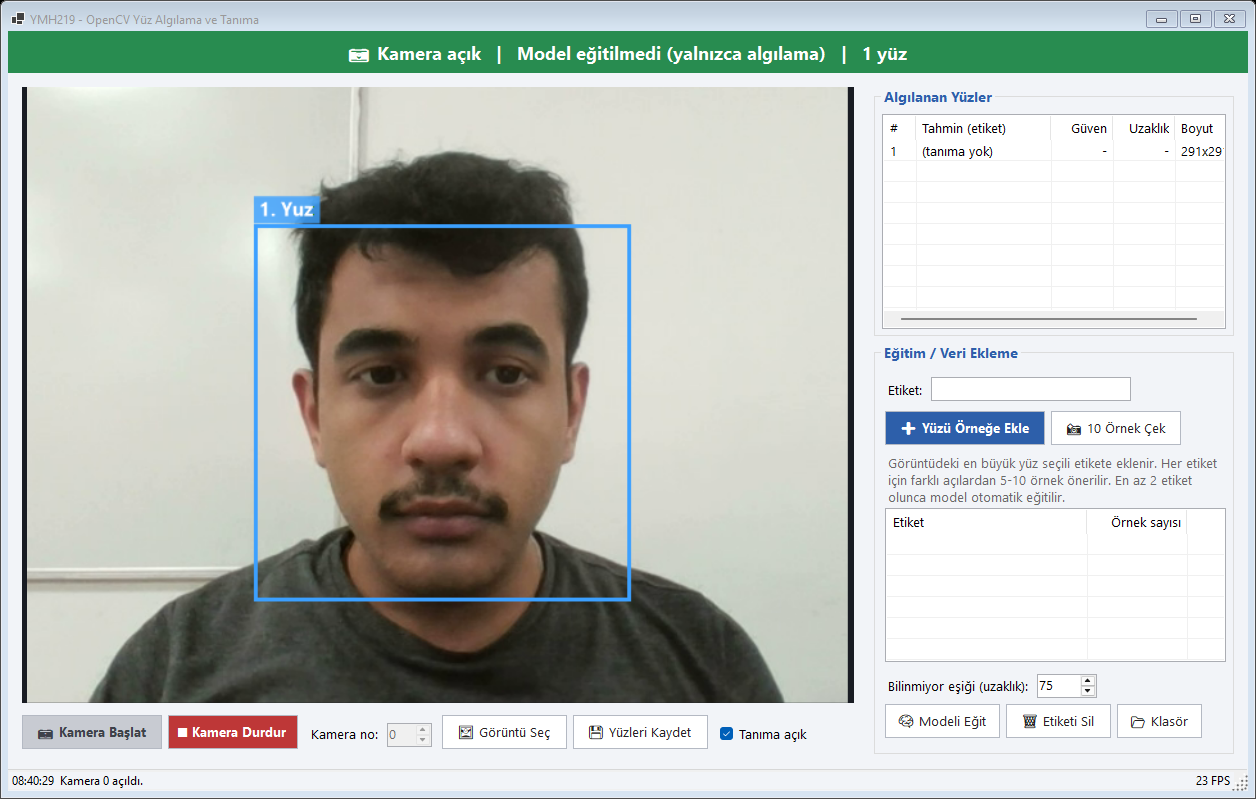
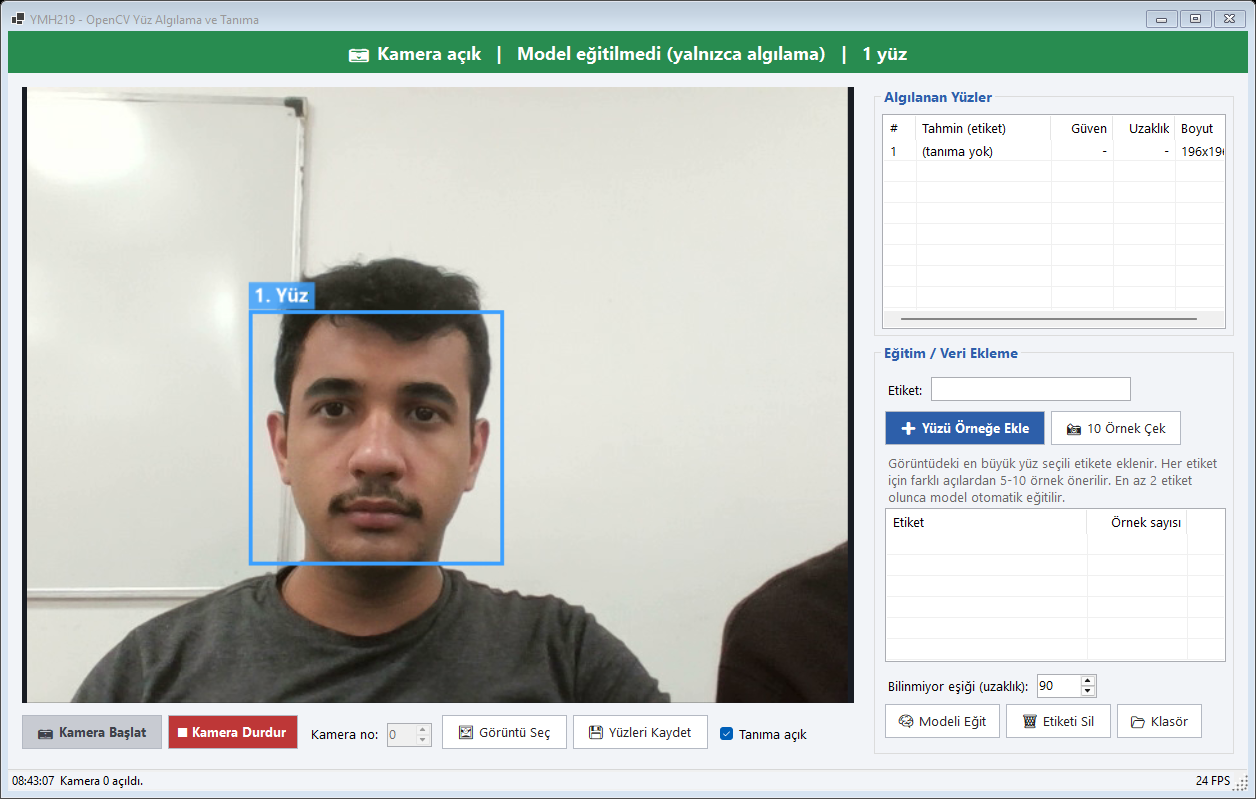
README ve ekran goruntuleri eklendi (kurulum, kullanim, siniflar, tanima yontemi, sinirlamalar)

diff --git a/README.md b/README.md
@@ -1,0 +1,113 @@
+# YMH219 - OpenCV ile Yüz Algılama ve Tanıma
+
+Nesne Tabanlı Programlama (YMH 219) dersi ek uygulama ödevi kapsamında **C# / .NET Windows Forms** ve **OpenCvSharp** ile geliştirilmiş masaüstü uygulaması.
+Kameradan veya dosyadan alınan görüntüde yüzleri **Haar Cascade** ile algılar ve dikdörtgenle işaretler. Kullanıcının oluşturduğu küçük yerel veri seti ile **LBPH** algoritmasını eğitir; her yüz için tahmin edilen etiketi ve güven skorunu gösterir.
+
+## Ekran Görüntüleri
+
+**İki kişinin aynı karede tanınması (2 etiket, 20 örnekle eğitilmiş model)**
+![İki kişi tanıma](screenshots/02-iki-kisi-tanima.png)
+
+| Model eğitilmeden: yalnızca algılama | Tek kişi tanıma |
+|:---:|:---:|
+| ![Algılama](screenshots/01-algilama.png) | ![Ömer tanıma](screenshots/03-omer-tanima.png) |
+
+> Ekran görüntülerindeki yüzler öğrencinin kendisine ve izin veren bir arkadaşına aittir. Görüntüler uygulamanın kendi kamera akışından alınmıştır.
+
+## Kullanılan Teknolojiler / NuGet Paketleri
+
+- C# 14 / .NET 10 (`net10.0-windows`), Windows Forms
+- **OpenCvSharp4** `4.13.0.20261107`: OpenCV'nin .NET sarmalayıcısı (`CascadeClassifier`, `VideoCapture`, `Mat`, `Cv2`)
+- **OpenCvSharp4.runtime.win**: Windows için yerel OpenCV kütüphanesi (contrib `face` modülü dahil, `LBPHFaceRecognizer`)
+- **OpenCvSharp4.Extensions**: `Mat` → `Bitmap` dönüşümü (`BitmapConverter`)
+- Yüz algılama modeli: OpenCV'nin resmi `haarcascade_frontalface_default.xml` dosyası (`FaceRecognition/Assets/`)
+
+## Kurulum ve Çalıştırma
+
+**Visual Studio ile:**
+1. Depoyu klonlayın: `git clone https://github.com/Omerdoganse/YMH219-FaceRecognition.git`
+2. `YMH219-FaceRecognition.sln` dosyasını Visual Studio 2022 (17.14+) / 2026 ile açın. NuGet paketleri otomatik geri yüklenir.
+3. Platformun **x64** (Any CPU, 64 bit) olduğundan emin olup `F5` ile çalıştırın.
+
+**Komut satırı ile:**
+```bash
+cd YMH219-FaceRecognition
+dotnet run --project FaceRecognition
+```
+
+> .NET 10 SDK ve 64 bit Windows gereklidir. Kamera için Windows'ta **Ayarlar → Gizlilik ve güvenlik → Kamera** bölümünde masaüstü uygulamalarına izin verilmelidir.
+
+## Kullanım
+
+1. **📷 Kamera Başlat** ile kamerayı açın (birden fazla kamera varsa *Kamera no* değiştirilebilir) veya **🖼 Görüntü Seç** ile bir fotoğraf açın. Bulunan yüzler mavi dikdörtgenle işaretlenir.
+2. **Etiket** kutusuna kişinin adını yazın (örn. *Ömer*). **📸 10 Örnek Çek** kameradan aralıklarla 10 yüz örneği alır, **➕ Yüzü Örneğe Ekle** yalnızca o anki kareyi ekler. Örnek çekerken başınızı hafifçe sağa sola çevirin.
+3. İkinci kişi (veya aynı kişinin farklı görünümü) için 2. adımı başka bir etiketle tekrarlayın.
+4. En az **2 etiket** olduğunda model otomatik eğitilir (**🧠 Modeli Eğit** ile elle de eğitilebilir). Artık yüzlerin üstünde **etiket ve güven skoru** görünür:
+   - 🟩 yeşil: tanınan kişi
+   - 🟧 turuncu: *Bilinmiyor* (uzaklık eşiğin üstünde)
+   - 🟦 mavi: yalnızca algılama (model eğitilmemiş veya *Tanıma açık* kapalı)
+5. **Bilinmiyor eşiği** ile tanımanın ne kadar katı olacağı ayarlanır (küçük değer = daha katı).
+6. **💾 Yüzleri Kaydet** ekrandaki tüm yüzleri ayrı PNG dosyaları olarak kaydeder. **🗑 Etiketi Sil** bir kişiyi veri setinden kaldırır, **📂 Klasör** veri seti klasörünü açar.
+
+Veri seti `%LOCALAPPDATA%\YMH219-FaceRecognition\FaceData\<etiket>\*.png` konumunda tutulur. Kişisel veri olduğu için depoya **eklenmez** (`.gitignore`).
+
+## Temel Özellikler
+
+- Kamera görüntüsü (~20 FPS) veya seçilen resim `PictureBox` içinde gösterilir.
+- Haar Cascade ile **yüz algılama** ve dikdörtgenle işaretleme. **Aynı karede birden fazla yüz** desteklenir.
+- LBPH ile **tanıma**: etiket, güven skoru (%) ve LBPH uzaklığı yüzün üstünde ve **Algılanan Yüzler** listesinde gösterilir.
+- **Basit eğitim / veri ekleme ekranı:** etiket oluşturma, tekli ve 10'lu örnek çekimi, etiket ve örnek sayısı listesi, etiket silme.
+- Kamera **Başlat / Durdur**, **Görüntü Seç**, algılanan yüzleri **ayrı klasöre kaydetme**.
+- Üst şeritte kamera ve model durumu, alt çubukta son işlem ve FPS gösterilir.
+- **Hata kontrolleri** (uygulama kapanmaz, anlaşılır mesaj gösterilir):
+  - Model dosyası yok veya bozuk → *"Yüz algılama modeli bulunamadı..."*
+  - Kamera açılamıyor, başka uygulama kullanıyor veya izin yok → *"Kamera 0 açılamadı..."*
+  - Kamera bağlantısı koptu → *"Kameradan görüntü alınamıyor..."*
+  - Geçersiz görüntü dosyası, görüntüde yüz yok, tek etiketle eğitim denemesi, geçersiz etiket adı, dosya yazma hataları
+
+## Proje Yapısı ve Sınıf Tasarımı
+
+```
+FaceRecognition/
+├── Program.cs
+├── MainForm.cs                  # Arayüz, olay yönetimi, kamera karelerini ekrana aktarma
+├── FaceOverlayRenderer.cs       # Dikdörtgen + etiket çizimi (GDI+, Türkçe karakter desteği)
+├── Assets/
+│   └── haarcascade_frontalface_default.xml
+├── Models/
+│   ├── FaceResult.cs            # Bir yüzün konumu, etiketi, uzaklığı, güven skoru
+│   └── LabelInfo.cs             # Etiket adı + örnek sayısı (record)
+└── Services/
+    ├── FaceDetector.cs          # CascadeClassifier sarmalayıcısı, yüz bölgesini hazırlama
+    ├── FaceRecognizerService.cs # LBPHFaceRecognizer: eğitim, tahmin, bilinmeyen eşiği
+    ├── FrameProcessor.cs        # Algılama + tanımayı birleştiren işlem hattı
+    ├── FaceDataStore.cs         # Etiketli yüz örneklerini diskte saklama / yükleme / silme
+    ├── CameraService.cs         # VideoCapture ile arka planda kare okuma (Task + CancellationToken)
+    └── FaceAppException.cs      # Kullanıcıya gösterilecek anlaşılır hata türü
+```
+
+- **Sorumlulukların ayrılması:** Algılama, tanıma, veri saklama ve kamera ayrı sınıflardadır. `FrameProcessor` bu servisleri birleştirir (kompozisyon), form ise yalnızca servisleri kullanır.
+- **Kapsülleme:** OpenCV nesneleri (`CascadeClassifier`, `LBPHFaceRecognizer`, `VideoCapture`) servislerin içinde `private` tutulur. Dışarıya `IsTrained`, `IsRunning`, `LabelCount` gibi salt okunur özellikler açılır.
+- **Olaylar (event):** `CameraService.FrameCaptured` ve `CameraError` olayları arka plan iş parçacığından gelir. Form, arayüzü `BeginInvoke` ile günceller ve arayüz yetişemezse kare atlar.
+- **Kaynak yönetimi:** `Mat` gibi yerel bellek kullanan nesneler `using` / `Dispose` ile serbest bırakılır. Servisler `IDisposable` arayüzünü uygular ve form kapanırken kamera ve model temizlenir. Kamera iş parçacığı ile arayüz arasındaki ortak veriler `lock` ile korunur.
+- **Kalıtım:** `FaceAppException`, `Exception` sınıfından türer.
+
+### Tanıma nasıl çalışıyor?
+1. Yüz bölgesi kesilir, griye çevrilir, 120x120 boyutuna getirilir ve histogram eşitlenir.
+2. LBPH her yüzü küçük bölgelere ayırıp yerel ikili desen histogramları çıkarır.
+3. Yeni yüzün histogramı eğitim örnekleriyle karşılaştırılır. En yakın örneğin etiketi ve **uzaklığı** döner.
+4. Uzaklık eşiğin (varsayılan 90) üstündeyse sonuç *Bilinmiyor* olur. Güven skoru uzaklıktan hesaplanan yaklaşık bir yüzdedir: `100 - uzaklık / (2 x eşik) x 100`.
+
+## Bilinen Sınırlamalar / Geliştirme Notları
+
+- Haar Cascade yalnızca **önden bakan** yüzleri iyi bulur. Profil, çok eğik baş veya karanlık ortamda yüz kaçabilir.
+- LBPH, derin öğrenme yöntemlerine göre basittir. Işık ve açı değişimine duyarlıdır ve az örnekle güven skorları %60-70 civarındadır. Örnek sayısı arttıkça ve örnekler farklı açılardan çekildikçe sonuç iyileşir.
+- Güven skoru olasılık değil, LBPH uzaklığından türetilmiş yaklaşık bir değerdir.
+- Yerel OpenCV kütüphanesi yalnızca **Windows x64** için eklenmiştir.
+- **Etik / kapsam:** Uygulama yalnızca ders kapsamında, yerel ve gönüllü örneklerle kullanılmak içindir. Veriler hiçbir yere gönderilmez. Kamuya açık alanlarda izinsiz kimlik takibi veya gizli görüntü toplama amacıyla kullanılmamalıdır.
+
+## Öğrenci Bilgileri
+
+- **Ad Soyad:** Ömer Doğan
+- **Öğrenci No:** 250541101
+- **Ders:** Nesne Tabanlı Programlama (YMH 219)
